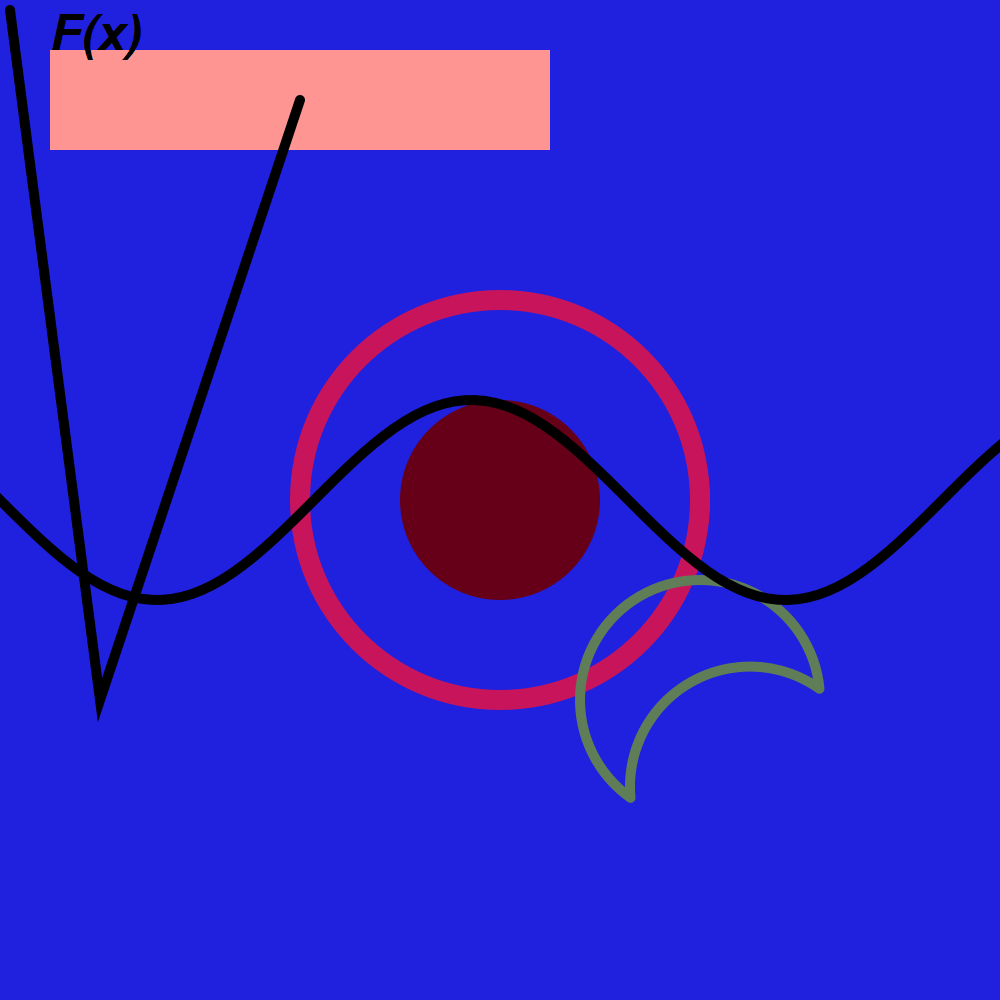
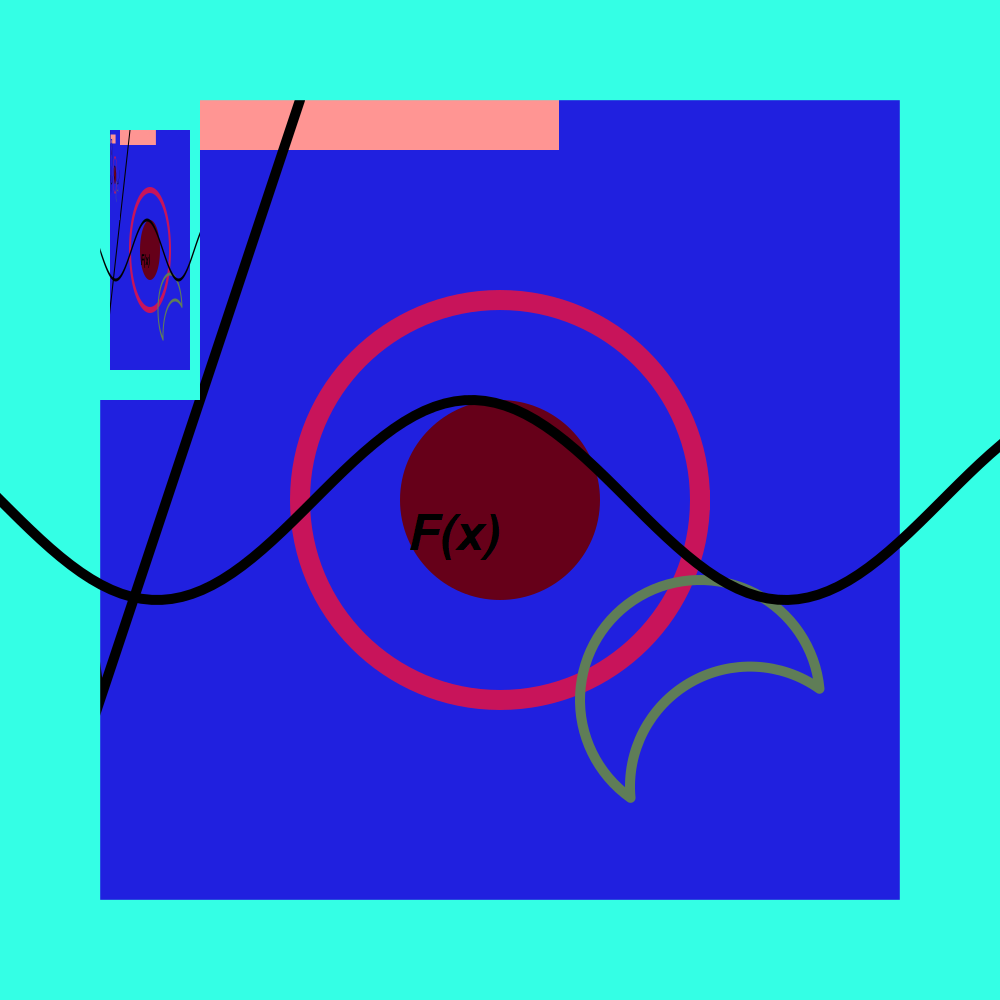
type hint args

diff --git a/Cairo_Utils/canvas.py b/Cairo_Utils/canvas.py
@@ -1,11 +1,13 @@
 import cairo as cr
+from typing import Union
 
 from Cairo_Utils.shapes import Shapes
 from Cairo_Utils.styles import StrokeStyles, FillStyles
 from Cairo_Utils.text import Text
+from Cairo_Utils.images import Images
 
 
-class Canvas(Shapes, StrokeStyles, FillStyles, Text):
+class Canvas(Shapes, StrokeStyles, FillStyles, Text, Images):
 
     def __init__(self, width: int, height: int):
         self._ims = cr.ImageSurface(cr.FORMAT_ARGB32, width, height)
@@ -16,19 +18,20 @@ class Canvas(Shapes, StrokeStyles, FillStyles, Text):
         StrokeStyles.__init__(self, self._ctx)
         FillStyles.__init__(self, self._ctx)
         Text.__init__(self, self._ctx)
+        Images.__init__(self, self._ctx)
 
-    def background_fill(self, colour):
+    def background_fill(self, colour: Union[tuple, str]):
         self.rectangle(0, 0, self._width, self._height)
         self.fill(colour)
 
-    def frame(self, width, colour):
+    def frame(self, width: float, colour: Union[tuple, str]):
         self.polygon([(0, 0),
                       (self._width, 0),
                       (self._width, self._height),
                       (0, self._height)])
         self.stroke(2 * width, colour)
 
-    def save_as_png(self, path):
+    def save_as_png(self, path: str):
         self._ims.write_to_png(path)
 
 
@@ -46,7 +49,7 @@ if __name__ == '__main__':
     c.circle(500, 500, 200)
     c.stroke(20, (200, 20, 90))
 
-    c.rectangle(50, 50, 500, 100)
+    c.rectangle(59, 50, 500, 100)
     c.fill(('#FF9593'))
 
     c.line([(10, 10),
@@ -58,7 +61,9 @@ if __name__ == '__main__':
     c.crescent(700, 700, 120, 100, math.pi / 3)
     c.stroke(10, (95, 125, 87), join_type='round')
 
-    # c.frame(100, '#34FFE5')
+    c.add_image('test.png', 100, 100, 100, 300)
+
+    c.frame(100.2, '#34FFE5')
 
     x = np.linspace(0, 1000, 100)
     y = 100 * np.sin(x / 100) + 500
@@ -67,6 +72,6 @@ if __name__ == '__main__':
     c.stroke(10, (0, 0, 0))
 
     c.set_font((0, 0, 0), font_slant='italic', font_weight='bold')
-    c.add_text('F(x)', 50, 50, 50)
+    c.add_text('F(x)', 500, 500, 50, top_right=True)
 
     c.save_as_png('test.png')

diff --git a/Cairo_Utils/text.py b/Cairo_Utils/text.py
@@ -1,3 +1,5 @@
+from typing import Union
+
 import cairo as cr
 
 import Cairo_Utils.colour as clr
@@ -5,8 +7,10 @@ import Cairo_Utils.colour as clr
 
 class Text:
 
-    def __init__(self, ctx, font_family='sans-serif', font_slant='normal',
-                 font_weight='normal', colour=(0, 0, 0)):
+    def __init__(self, ctx: cr.Context, font_family: str = 'sans-serif',
+                 font_slant: str = 'normal',
+                 font_weight: str = 'normal',
+                 colour: Union[tuple, str] = (0, 0, 0)):
         self._ctx = ctx
         self.font_family = font_family
         self.font_slant = font_slant
@@ -53,18 +57,25 @@ class Text:
 
     def _update_font(self):
         self._ctx.select_font_face(self.font_family,
-                                    self.font_slant,
-                                    self.font_weight)
+                                   self.font_slant,
+                                   self.font_weight)
 
-    def set_font(self, colour=(0,0,0), font_family='sans-serif', font_slant='normal',
-                    font_weight='normal'):
+    def set_font(self, colour: Union[tuple, str] = (0, 0, 0),
+                 font_family: str = 'sans-serif',
+                 font_slant: str = 'normal',
+                 font_weight: str = 'normal'):
         self.colour = colour
         self.font_family = font_family
         self.font_slant = font_slant
         self.font_weight = font_weight
 
-    def add_text(self, text, x, y, font_size):
+    def add_text(self, text: str, x: float, y: float,
+                 font_size: float, top_right: bool = False):
         self._ctx.set_source_rgba(*self.colour)
         self._ctx.set_font_size(font_size)
-        self._ctx.move_to(x, y)
+        if top_right:
+            xx, yy, w, h, dx, dy = self._ctx.text_extents(text)
+            self._ctx.move_to(x - w, y + font_size)
+        else:
+            self._ctx.move_to(x, y + font_size)
         self._ctx.show_text(text)

diff --git a/Cairo_Utils/shapes.py b/Cairo_Utils/shapes.py
@@ -1,26 +1,33 @@
 import math
 
+import cairo as cr
+from typing import List
+
 
 class Shapes:
 
-    def __init__(self, ctx):
+    def __init__(self, ctx: cr.Context):
         self._ctx = ctx
 
-    def rectangle(self, x, y, width, height):
+    def rectangle(self, x: float, y: float,
+                  width: float, height: float):
         self._ctx.rectangle(x, y, width, height)
 
-    def circle(self, x, y, radius):
+    def circle(self, x: float, y: float,
+               radius: float):
         self._ctx.arc(x, y, radius, 0, 2 * math.pi)
 
-    def line(self, coord_list):
+    def line(self, coord_list: List[tuple]):
         self._ctx.move_to(*coord_list[0])
         [self._ctx.line_to(*coord) for coord in coord_list[1:]]
 
-    def polygon(self, coord_list):
+    def polygon(self, coord_list: List[tuple]):
         self.line(coord_list)
         self._ctx.close_path()
 
-    def crescent(self, x, y, radius, shift, rotate=0.0):
+    def crescent(self, x: float, y: float,
+                 radius: float, shift: float,
+                 rotate: float = 0.0):
         phi = math.acos(shift / (2 * radius))
         x_shift, y_shift = shift * math.cos(rotate), shift * math.sin(rotate)
         self._ctx.arc(x + x_shift, y + y_shift, radius, rotate + math.pi - phi,

diff --git a/Cairo_Utils/styles.py b/Cairo_Utils/styles.py
@@ -6,7 +6,7 @@ import Cairo_Utils.colour as clr
 
 class StrokeStyles:
 
-    def __init__(self, ctx):
+    def __init__(self, ctx: cr.Context):
         self._ctx = ctx
 
     def stroke(self,
@@ -22,7 +22,7 @@ class StrokeStyles:
         self.set_cap(cap_type)
         self._ctx.stroke()
 
-    def set_join(self, join_type):
+    def set_join(self, join_type: str):
         if join_type == 'miter':
             self._ctx.set_line_join(cr.LINE_JOIN_MITER)
         elif join_type == 'round':
@@ -32,7 +32,7 @@ class StrokeStyles:
         else:
             raise ValueError(f'stroke join type "{join_type}" not understood')
 
-    def set_cap(self, cap_type):
+    def set_cap(self, cap_type: str):
         if cap_type == 'square':
             self._ctx.set_line_cap(cr.LINE_CAP_SQUARE)
         elif cap_type == 'round':
@@ -45,7 +45,7 @@ class StrokeStyles:
 
 class FillStyles:
 
-    def __init__(self, ctx):
+    def __init__(self, ctx: cr.Context):
         self._ctx = ctx
 
     def fill(self, colour: Union[tuple, str]):

diff --git a/Cairo_Utils/images.py b/Cairo_Utils/images.py
@@ -1,0 +1,23 @@
+import cairo as cr
+
+class Images:
+
+    def __init__(self, ctx: cr.Context):
+        self._ctx = ctx
+    
+    def add_image(self, image_path: str, top: float, left: float,
+                  height: float, width: float):
+        image_surface = cr.ImageSurface.create_from_png(image_path)
+        img_height = image_surface.get_height()
+        img_width = image_surface.get_width()
+        width_ratio = float(width) / float(img_width)
+        height_ratio = float(height) / float(img_height)
+        scale_xy = (height_ratio, width_ratio)
+
+        self._ctx.save()
+        self._ctx.translate(left, top)
+        self._ctx.scale(*scale_xy)
+        self._ctx.set_source_surface(image_surface)
+
+        self._ctx.paint()
+        self._ctx.restore()
